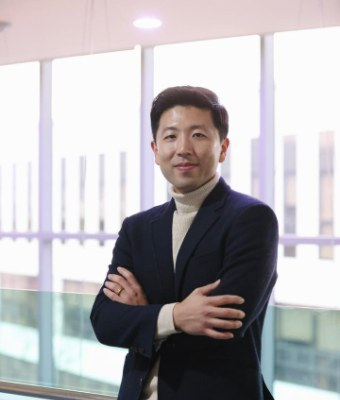
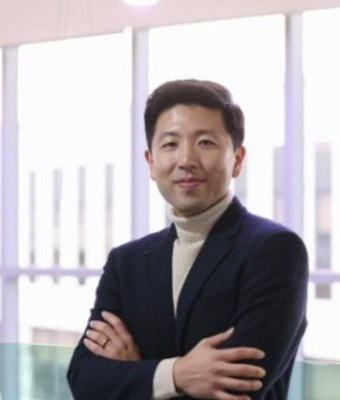
updated program and people's page

diff --git a/program-2026.html b/program-2026.html
@@ -127,13 +127,13 @@ a{color:#14402F;text-decoration:underline;text-underline-offset:3px}a:hover{colo
           <div style="display:grid;grid-template-columns:104px 1fr;gap:14px;padding:11px 0;border-bottom:1px solid #E4E7E4;font-size:13.5px"><span style="color:#75837B;font-variant-numeric:tabular-nums">09:10–09:40</span><span><strong>Opening remarks</strong><span style="color:#75837B"> · Arianna Legovini, World Bank DECDI</span></span></div>
           <div style="display:grid;grid-template-columns:104px 1fr;gap:14px;padding:11px 0;border-bottom:1px solid #E4E7E4;font-size:13.5px;color:#93A29A"><span style="font-variant-numeric:tabular-nums">09:40–09:45</span><span>Group photo</span></div>
           <div style="display:grid;grid-template-columns:104px 1fr;gap:14px;padding:11px 0;border-bottom:1px solid #E4E7E4;font-size:13.5px;color:#93A29A"><span style="font-variant-numeric:tabular-nums">09:45–10:00</span><span>Coffee break</span></div>
-          <div style="display:grid;grid-template-columns:104px 1fr;gap:14px;padding:11px 0;border-bottom:1px solid #E4E7E4;font-size:13.5px"><span style="color:#75837B;font-variant-numeric:tabular-nums">10:00–11:00</span><span><strong>Gender, Inequality &amp; Financial Inclusion</strong><span style="color:#75837B"> · Panel 1</span><span style="display:block;margin-top:3px;font-size:12px;color:#93A29A">Chair: Trinh Pham</span><span style="display:block;margin-top:9px;font-size:12.5px;line-height:1.5"><span style="font-weight:600;color:#2B3B33">Dongil Lee</span><span style="color:#75837B"> (KDIS)</span><span style="display:block;font-style:italic;color:#5B6470;margin-top:1px">Foreign Aid Cuts, Fertility, and Women’s Labor Supply: Evidence from the Mexico City Policy</span></span><span style="display:block;margin-top:9px;font-size:12.5px;line-height:1.5"><span style="font-weight:600;color:#2B3B33">Girija Borker</span><span style="color:#75837B"> (DIME)</span><span style="display:block;font-style:italic;color:#5B6470;margin-top:1px">Assessing Whether Policies Scale: A Randomized Method Applied to Delhi’s Free Bus Scheme</span></span><span style="display:block;margin-top:9px;font-size:12.5px;line-height:1.5"><span style="font-weight:600;color:#2B3B33">Hisaki Kono</span><span style="color:#75837B"> (Kyoto)</span><span style="display:block;font-style:italic;color:#5B6470;margin-top:1px">At the Right Time: Eliminating Mismatch between Cash and Credit Flows in Microcredit</span></span></span></div>
+          <div style="display:grid;grid-template-columns:104px 1fr;gap:14px;padding:11px 0;border-bottom:1px solid #E4E7E4;font-size:13.5px"><span style="color:#75837B;font-variant-numeric:tabular-nums">10:00–11:00</span><span><strong>Gender, Inequality &amp; Financial Inclusion</strong><span style="color:#75837B"> · Panel 1</span><span style="display:block;margin-top:3px;font-size:12px;color:#93A29A">Chair: Trinh Pham</span><span style="display:block;margin-top:9px;font-size:12.5px;line-height:1.5"><span style="font-weight:600;color:#2B3B33">Girija Borker</span><span style="color:#75837B"> (DIME)</span><span style="display:block;font-style:italic;color:#5B6470;margin-top:1px">Assessing Whether Policies Scale: A Randomized Method Applied to Delhi’s Free Bus Scheme</span></span><span style="display:block;margin-top:9px;font-size:12.5px;line-height:1.5"><span style="font-weight:600;color:#2B3B33">Dongil Lee</span><span style="color:#75837B"> (KDIS)</span><span style="display:block;font-style:italic;color:#5B6470;margin-top:1px">Foreign Aid Cuts, Fertility, and Women’s Labor Supply: Evidence from the Mexico City Policy</span></span><span style="display:block;margin-top:9px;font-size:12.5px;line-height:1.5"><span style="font-weight:600;color:#2B3B33">Hisaki Kono</span><span style="color:#75837B"> (Kyoto)</span><span style="display:block;font-style:italic;color:#5B6470;margin-top:1px">At the Right Time: Eliminating Mismatch between Cash and Credit Flows in Microcredit</span></span></span></div>
           <div style="display:grid;grid-template-columns:104px 1fr;gap:14px;padding:11px 0;border-bottom:1px solid #E4E7E4;font-size:13.5px;color:#93A29A"><span style="font-variant-numeric:tabular-nums">11:00–11:10</span><span>Break</span></div>
           <div style="display:grid;grid-template-columns:104px 1fr;gap:14px;padding:11px 0;border-bottom:1px solid #E4E7E4;font-size:13.5px"><span style="color:#75837B;font-variant-numeric:tabular-nums">11:10–12:10</span><span><strong>Education &amp; Human Capital</strong><span style="color:#75837B"> · Panel 2</span><span style="display:block;margin-top:3px;font-size:12px;color:#93A29A">Chair: Dongil Lee</span><span style="display:block;margin-top:9px;font-size:12.5px;line-height:1.5"><span style="font-weight:600;color:#2B3B33">Carlos Alfredo Schmidt Padilla</span><span style="color:#75837B"> (UC Berkeley)</span><span style="display:block;font-style:italic;color:#5B6470;margin-top:1px">Turning Information into Action: Bridging the Policy–Practice Gap through a Low-Cost School-Level Intervention</span></span><span style="display:block;margin-top:9px;font-size:12.5px;line-height:1.5"><span style="font-weight:600;color:#2B3B33">Uyanga Byambaa</span><span style="color:#75837B"> (UC Berkeley)</span><span style="display:block;font-style:italic;color:#5B6470;margin-top:1px">Cognitive Enrichment and Human Capital Formation: Experimental Evidence from Developing Countries</span></span><span style="display:block;margin-top:9px;font-size:12.5px;line-height:1.5"><span style="font-weight:600;color:#2B3B33">Benedetta Lerva</span><span style="color:#75837B"> (DIME)</span><span style="display:block;font-style:italic;color:#5B6470;margin-top:1px">Impacts of School Feeding on Children: Evidence from Four Countries</span></span></span></div>
           <div style="display:grid;grid-template-columns:104px 1fr;gap:14px;padding:11px 0;border-bottom:1px solid #E4E7E4;font-size:13.5px;color:#93A29A"><span style="font-variant-numeric:tabular-nums">12:10–13:30</span><span>Lunch</span></div>
           <div style="display:grid;grid-template-columns:104px 1fr;gap:14px;padding:11px 0;border-bottom:1px solid #E4E7E4;font-size:13.5px"><span style="color:#75837B;font-variant-numeric:tabular-nums">13:30–14:10</span><span><strong>Keynote — Johannes Haushofer</strong><span style="color:#75837B"> · Cornell University</span></span></div>
           <div style="display:grid;grid-template-columns:104px 1fr;gap:14px;padding:11px 0;border-bottom:1px solid #E4E7E4;font-size:13.5px;color:#93A29A"><span style="font-variant-numeric:tabular-nums">14:10–14:30</span><span>Coffee break</span></div>
-          <div style="display:grid;grid-template-columns:104px 1fr;gap:14px;padding:11px 0;border-bottom:1px solid #E4E7E4;font-size:13.5px"><span style="color:#75837B;font-variant-numeric:tabular-nums">14:30–15:50</span><span><strong>Lightning session</strong><span style="color:#75837B"> · Graduate-student presentations</span><span style="display:block;margin-top:3px;font-size:12px;color:#93A29A">Chair: Girija Borker</span><span style="display:block;margin-top:9px;font-size:12.5px;line-height:1.5"><span style="font-weight:600;color:#2B3B33">Rajdev Kaur Brar</span><span style="color:#75837B"> (UC Berkeley)</span><span style="display:block;font-style:italic;color:#5B6470;margin-top:1px">Household-Level Impacts of Strengthening Women’s Financial Control: Evidence from Côte d’Ivoire</span></span><span style="display:block;margin-top:9px;font-size:12.5px;line-height:1.5"><span style="font-weight:600;color:#2B3B33">Jasmin Baier</span><span style="color:#75837B"> (Oxford)</span><span style="display:block;font-style:italic;color:#5B6470;margin-top:1px">Can AI Career Guidance Substitute for Human Counselors? Information, Persuasion, and Match Quality in a Kenyan Youth Labor Market</span></span><span style="display:block;margin-top:9px;font-size:12.5px;line-height:1.5"><span style="font-weight:600;color:#2B3B33">Weijian Zou</span><span style="color:#75837B"> (LSE)</span><span style="display:block;font-style:italic;color:#5B6470;margin-top:1px">Disruptive Power: The Spatial Diffusion of Distributed Solar in South Africa</span></span><span style="display:block;margin-top:9px;font-size:12.5px;line-height:1.5"><span style="font-weight:600;color:#2B3B33">Hyunju Jeong</span><span style="color:#75837B"> (UC Davis)</span><span style="display:block;font-style:italic;color:#5B6470;margin-top:1px">Bundling Industrial Policy with Education: Evidence from Korea’s Heavy and Chemical Industry Drive</span></span><span style="display:block;margin-top:9px;font-size:12.5px;line-height:1.5"><span style="font-weight:600;color:#2B3B33">Piyush Gandhi</span><span style="color:#75837B"> (UC Santa Cruz)</span><span style="display:block;font-style:italic;color:#5B6470;margin-top:1px">Extinguishing the Blaze: Impact of Crop Residue Management on Stubble Burning in India</span></span><span style="display:block;margin-top:9px;font-size:12.5px;line-height:1.5"><span style="font-weight:600;color:#2B3B33">Mridul Joshi</span><span style="color:#75837B"> (Stanford)</span><span style="display:block;font-style:italic;color:#5B6470;margin-top:1px">Self-Command and Screen-Time: Evidence from an Educational Intervention</span></span><span style="display:block;margin-top:9px;font-size:12.5px;line-height:1.5"><span style="font-weight:600;color:#2B3B33">Bendi Devi</span><span style="color:#75837B"> (NUS)</span><span style="display:block;font-style:italic;color:#5B6470;margin-top:1px">Services In, Profits Out! Does Tax Treaty Reform in Technical Services Reduce Profit Shifting? Evidence from Transaction-Level Tax Data</span></span><span style="display:block;margin-top:9px;font-size:12.5px;line-height:1.5"><span style="font-weight:600;color:#2B3B33">Saqib Hussain</span><span style="color:#75837B"> (KDIS)</span><span style="display:block;font-style:italic;color:#5B6470;margin-top:1px">Role of (Mis)Information in Sectarian Conflict: A Social Media Experiment</span></span></span></div>
+          <div style="display:grid;grid-template-columns:104px 1fr;gap:14px;padding:11px 0;border-bottom:1px solid #E4E7E4;font-size:13.5px"><span style="color:#75837B;font-variant-numeric:tabular-nums">14:30–15:50</span><span><strong>Lightning session</strong><span style="color:#75837B"> · Graduate-student presentations</span><span style="display:block;margin-top:3px;font-size:12px;color:#93A29A">Chair: TBD (World Bank DECDI)</span><span style="display:block;margin-top:9px;font-size:12.5px;line-height:1.5"><span style="font-weight:600;color:#2B3B33">Rajdev Kaur Brar</span><span style="color:#75837B"> (UC Berkeley)</span><span style="display:block;font-style:italic;color:#5B6470;margin-top:1px">Household-Level Impacts of Strengthening Women’s Financial Control: Evidence from Côte d’Ivoire</span></span><span style="display:block;margin-top:9px;font-size:12.5px;line-height:1.5"><span style="font-weight:600;color:#2B3B33">Jasmin Baier</span><span style="color:#75837B"> (Oxford)</span><span style="display:block;font-style:italic;color:#5B6470;margin-top:1px">Can AI Career Guidance Substitute for Human Counselors? Information, Persuasion, and Match Quality in a Kenyan Youth Labor Market</span></span><span style="display:block;margin-top:9px;font-size:12.5px;line-height:1.5"><span style="font-weight:600;color:#2B3B33">Weijian Zou</span><span style="color:#75837B"> (LSE)</span><span style="display:block;font-style:italic;color:#5B6470;margin-top:1px">Disruptive Power: The Spatial Diffusion of Distributed Solar in South Africa</span></span><span style="display:block;margin-top:9px;font-size:12.5px;line-height:1.5"><span style="font-weight:600;color:#2B3B33">Hyunju Jeong</span><span style="color:#75837B"> (UC Davis)</span><span style="display:block;font-style:italic;color:#5B6470;margin-top:1px">Bundling Industrial Policy with Education: Evidence from Korea’s Heavy and Chemical Industry Drive</span></span><span style="display:block;margin-top:9px;font-size:12.5px;line-height:1.5"><span style="font-weight:600;color:#2B3B33">Piyush Gandhi</span><span style="color:#75837B"> (UC Santa Cruz)</span><span style="display:block;font-style:italic;color:#5B6470;margin-top:1px">Extinguishing the Blaze: Impact of Crop Residue Management on Stubble Burning in India</span></span><span style="display:block;margin-top:9px;font-size:12.5px;line-height:1.5"><span style="font-weight:600;color:#2B3B33">Mridul Joshi</span><span style="color:#75837B"> (Stanford)</span><span style="display:block;font-style:italic;color:#5B6470;margin-top:1px">Self-Command and Screen-Time: Evidence from an Educational Intervention</span></span><span style="display:block;margin-top:9px;font-size:12.5px;line-height:1.5"><span style="font-weight:600;color:#2B3B33">Bendi Devi</span><span style="color:#75837B"> (NUS)</span><span style="display:block;font-style:italic;color:#5B6470;margin-top:1px">Services In, Profits Out! Does Tax Treaty Reform in Technical Services Reduce Profit Shifting? Evidence from Transaction-Level Tax Data</span></span><span style="display:block;margin-top:9px;font-size:12.5px;line-height:1.5"><span style="font-weight:600;color:#2B3B33">Saqib Hussain</span><span style="color:#75837B"> (KDIS)</span><span style="display:block;font-style:italic;color:#5B6470;margin-top:1px">Role of (Mis)Information in Sectarian Conflict: A Social Media Experiment</span></span></span></div>
           <div style="display:grid;grid-template-columns:104px 1fr;gap:14px;padding:11px 0;border-bottom:1px solid #E4E7E4;font-size:13.5px;color:#93A29A"><span style="font-variant-numeric:tabular-nums">15:50–16:10</span><span>Coffee break</span></div>
           <div style="display:grid;grid-template-columns:104px 1fr;gap:14px;padding:11px 0;border-bottom:1px solid #E4E7E4;font-size:13.5px"><span style="color:#75837B;font-variant-numeric:tabular-nums">16:10–17:30</span><span><strong>Climate, Agriculture &amp; Environment</strong><span style="color:#75837B"> · Panel 3</span><span style="display:block;margin-top:3px;font-size:12px;color:#93A29A">Chair: Chungeun Yoon</span><span style="display:block;margin-top:9px;font-size:12.5px;line-height:1.5"><span style="font-weight:600;color:#2B3B33">Raghav Raghunathan</span><span style="color:#75837B"> (Wageningen)</span><span style="display:block;font-style:italic;color:#5B6470;margin-top:1px">Expanding the Planning Horizon: Behavioral Training and the Adoption of Drought-Tolerant Maize and Index Insurance in Tanzania</span></span><span style="display:block;margin-top:9px;font-size:12.5px;line-height:1.5"><span style="font-weight:600;color:#2B3B33">David Sungho Park</span><span style="color:#75837B"> (KDIS)</span><span style="display:block;font-style:italic;color:#5B6470;margin-top:1px">Compounded Climate Shocks and Food Security: Evidence from Back-to-Back Cyclones in Madagascar</span></span><span style="display:block;margin-top:9px;font-size:12.5px;line-height:1.5"><span style="font-weight:600;color:#2B3B33">Xavier Gine</span><span style="color:#75837B"> (DECRG)</span><span style="display:block;font-style:italic;color:#5B6470;margin-top:1px">Can Insurance Crowd-In Climate Adaptation?</span></span><span style="display:block;margin-top:9px;font-size:12.5px;line-height:1.5"><span style="font-weight:600;color:#2B3B33">Trinh Pham</span><span style="color:#75837B"> (KDIS)</span><span style="display:block;font-style:italic;color:#5B6470;margin-top:1px">The Environmental Cost of Place-Based Industrial Policy: Evidence from Industrial Zones in Vietnam</span></span></span></div>
         </div>
@@ -145,9 +145,9 @@ a{color:#14402F;text-decoration:underline;text-underline-offset:3px}a:hover{colo
           <div style="display:grid;grid-template-columns:104px 1fr;gap:14px;padding:11px 0;border-bottom:1px solid #E4E7E4;font-size:13.5px;color:#93A29A"><span style="font-variant-numeric:tabular-nums">10:00–10:20</span><span>Coffee break</span></div>
           <div style="display:grid;grid-template-columns:104px 1fr;gap:14px;padding:11px 0;border-bottom:1px solid #E4E7E4;font-size:13.5px"><span style="color:#75837B;font-variant-numeric:tabular-nums">10:20–11:40</span><span><strong>Labor Markets &amp; Work</strong><span style="color:#75837B"> · Panel 5</span><span style="display:block;margin-top:3px;font-size:12px;color:#93A29A">Chair: Dahyeon Jeong</span><span style="display:block;margin-top:9px;font-size:12.5px;line-height:1.5"><span style="font-weight:600;color:#2B3B33">Jinseong Park</span><span style="color:#75837B"> (KDIS)</span><span style="display:block;font-style:italic;color:#5B6470;margin-top:1px">In and Out: How Do Food Delivery Riders Work</span></span><span style="display:block;margin-top:9px;font-size:12.5px;line-height:1.5"><span style="font-weight:600;color:#2B3B33">Arlen Guarin</span><span style="color:#75837B"> (DIME)</span><span style="display:block;font-style:italic;color:#5B6470;margin-top:1px">The Early-Career Effects of Anxiety and Depression</span></span><span style="display:block;margin-top:9px;font-size:12.5px;line-height:1.5"><span style="font-weight:600;color:#2B3B33">Sam Seo</span><span style="color:#75837B"> (DIME)</span><span style="display:block;font-style:italic;color:#5B6470;margin-top:1px">Vintage Capital, Labor Market Dynamics, and Optimal Acceleration of Coal Transitions</span></span><span style="display:block;margin-top:9px;font-size:12.5px;line-height:1.5"><span style="font-weight:600;color:#2B3B33">Abdelrahman Nagy</span><span style="color:#75837B"> (UNU-MERIT &amp; 3ie)</span><span style="display:block;font-style:italic;color:#5B6470;margin-top:1px">Parental Influence on Youth Employment Decisions in Rural Egypt: Evidence from a Randomized Controlled Trial</span></span></span></div>
           <div style="display:grid;grid-template-columns:104px 1fr;gap:14px;padding:11px 0;border-bottom:1px solid #E4E7E4;font-size:13.5px;color:#93A29A"><span style="font-variant-numeric:tabular-nums">11:40–13:00</span><span>Lunch</span></div>
-          <div style="display:grid;grid-template-columns:104px 1fr;gap:14px;padding:11px 0;border-bottom:1px solid #E4E7E4;font-size:13.5px"><span style="color:#75837B;font-variant-numeric:tabular-nums">13:00–14:00</span><span><strong>Governance, Political Economy &amp; Digital Innovation</strong><span style="color:#75837B"> · Panel 6</span><span style="display:block;margin-top:3px;font-size:12px;color:#93A29A">Chair: Jinseong Park</span><span style="display:block;margin-top:9px;font-size:12.5px;line-height:1.5"><span style="font-weight:600;color:#2B3B33">Chungeun Yoon</span><span style="color:#75837B"> (KDIS)</span><span style="display:block;font-style:italic;color:#5B6470;margin-top:1px">Terrorism and Voting: Evidence from the Death of Osama bin Laden</span></span><span style="display:block;margin-top:9px;font-size:12.5px;line-height:1.5"><span style="font-weight:600;color:#2B3B33">Minji Kwak</span><span style="color:#75837B"> (KDIS)</span><span style="display:block;font-style:italic;color:#5B6470;margin-top:1px">Social Incentives of Non-Elected Leaders in Village Economies</span></span><span style="display:block;margin-top:9px;font-size:12.5px;line-height:1.5"><span style="font-weight:600;color:#2B3B33">Carolina Lopez</span><span style="color:#75837B"> (DECRG)</span><span style="display:block;font-style:italic;color:#5B6470;margin-top:1px">Not Faster, but Better: Generative AI and Teacher Skill in Peru</span></span></span></div>
+          <div style="display:grid;grid-template-columns:104px 1fr;gap:14px;padding:11px 0;border-bottom:1px solid #E4E7E4;font-size:13.5px"><span style="color:#75837B;font-variant-numeric:tabular-nums">13:00–14:00</span><span><strong>Governance, Political Economy &amp; Digital Innovation</strong><span style="color:#75837B"> · Panel 6</span><span style="display:block;margin-top:3px;font-size:12px;color:#93A29A">Chair: Sam Seo</span><span style="display:block;margin-top:9px;font-size:12.5px;line-height:1.5"><span style="font-weight:600;color:#2B3B33">Chungeun Yoon</span><span style="color:#75837B"> (KDIS)</span><span style="display:block;font-style:italic;color:#5B6470;margin-top:1px">Terrorism and Voting: Evidence from the Death of Osama bin Laden</span></span><span style="display:block;margin-top:9px;font-size:12.5px;line-height:1.5"><span style="font-weight:600;color:#2B3B33">Minji Kwak</span><span style="color:#75837B"> (KDIS)</span><span style="display:block;font-style:italic;color:#5B6470;margin-top:1px">Social Incentives of Non-Elected Leaders in Village Economies</span></span><span style="display:block;margin-top:9px;font-size:12.5px;line-height:1.5"><span style="font-weight:600;color:#2B3B33">Carolina Lopez</span><span style="color:#75837B"> (DECRG)</span><span style="display:block;font-style:italic;color:#5B6470;margin-top:1px">Not Faster, but Better: Generative AI and Teacher Skill in Peru</span></span></span></div>
           <div style="display:grid;grid-template-columns:104px 1fr;gap:14px;padding:11px 0;border-bottom:1px solid #E4E7E4;font-size:13.5px;color:#93A29A"><span style="font-variant-numeric:tabular-nums">14:00–14:20</span><span>Coffee break</span></div>
-          <div style="display:grid;grid-template-columns:104px 1fr;gap:14px;padding:11px 0;border-bottom:1px solid #E4E7E4;font-size:13.5px"><span style="color:#75837B;font-variant-numeric:tabular-nums">14:20–15:20</span><span><strong>Social Protection &amp; Poverty</strong><span style="color:#75837B"> · Panel 7</span><span style="display:block;margin-top:3px;font-size:12px;color:#93A29A">Chair: Minji Kwak</span><span style="display:block;margin-top:9px;font-size:12.5px;line-height:1.5"><span style="font-weight:600;color:#2B3B33">Mahreen Mahmud</span><span style="color:#75837B"> (Exeter)</span><span style="display:block;font-style:italic;color:#5B6470;margin-top:1px">“We’re All in This Together”: Experimental Evidence from a Universal Livelihoods Program</span></span><span style="display:block;margin-top:9px;font-size:12.5px;line-height:1.5"><span style="font-weight:600;color:#2B3B33">Dahyeon Jeong</span><span style="color:#75837B"> (DIME)</span><span style="display:block;font-style:italic;color:#5B6470;margin-top:1px">Designing Social Protection: Evidence from Cash, Public Works, and Economic Inclusion in Tanzania</span></span><span style="display:block;margin-top:9px;font-size:12.5px;line-height:1.5"><span style="font-weight:600;color:#2B3B33">Amol Singh Raswan</span><span style="color:#75837B"> (UC Berkeley)</span><span style="display:block;font-style:italic;color:#5B6470;margin-top:1px">The Sisyphean Pursuit of Evidence for Poverty Traps</span></span></span></div>
+          <div style="display:grid;grid-template-columns:104px 1fr;gap:14px;padding:11px 0;border-bottom:1px solid #E4E7E4;font-size:13.5px"><span style="color:#75837B;font-variant-numeric:tabular-nums">14:20–15:20</span><span><strong>Social Protection &amp; Poverty</strong><span style="color:#75837B"> · Panel 7</span><span style="display:block;margin-top:3px;font-size:12px;color:#93A29A">Chair: Jinseong Park</span><span style="display:block;margin-top:9px;font-size:12.5px;line-height:1.5"><span style="font-weight:600;color:#2B3B33">Mahreen Mahmud</span><span style="color:#75837B"> (Exeter)</span><span style="display:block;font-style:italic;color:#5B6470;margin-top:1px">“We’re All in This Together”: Experimental Evidence from a Universal Livelihoods Program</span></span><span style="display:block;margin-top:9px;font-size:12.5px;line-height:1.5"><span style="font-weight:600;color:#2B3B33">Dahyeon Jeong</span><span style="color:#75837B"> (DIME)</span><span style="display:block;font-style:italic;color:#5B6470;margin-top:1px">Designing Social Protection: Evidence from Cash, Public Works, and Economic Inclusion in Tanzania</span></span><span style="display:block;margin-top:9px;font-size:12.5px;line-height:1.5"><span style="font-weight:600;color:#2B3B33">Amol Singh Raswan</span><span style="color:#75837B"> (UC Berkeley)</span><span style="display:block;font-style:italic;color:#5B6470;margin-top:1px">The Sisyphean Pursuit of Evidence for Poverty Traps</span></span></span></div>
         </div>
       </div>
     </div>

diff --git a/people.html b/people.html
@@ -77,9 +77,9 @@ a{color:#14402F;text-decoration:underline;text-underline-offset:3px}a:hover{colo
         <img src="photos/people-park.jpg" alt="Drop David Sungho Park headshot" style="width:170px;height:200px;object-fit:cover">
         <div>
           <div style="font-family:'Source Serif 4',serif;font-weight:600;font-size:26px;margin-bottom:5px">David Sungho Park</div>
-          <div style="font-size:13.5px;font-weight:600;color:#5B6470;margin-bottom:6px">Associate Professor of Economics, KDI School of Public Policy and Management</div>
-          <div style="font-size:10.5px;font-weight:700;letter-spacing:1.8px;color:#A87E28;text-transform:uppercase;margin-bottom:16px">Poverty · Applied microeconomics · RCTs</div>
-          <p style="font-size:14.5px;line-height:1.7;color:#2B3B33;margin:0;max-width:760px;text-wrap:pretty">David Sungho Park is Associate Professor of Economics at the KDI School of Public Policy and Management. He is an applied microeconomist working on poverty, using randomized controlled trials and quasi-experimental methods to ask how low-income households and small firms make decisions and how policy can improve their outcomes. Much of this work is based on large-scale trials in Sub-Saharan Africa, South Asia, and beyond, spanning Tanzania, Liberia, Malawi, Zambia, Kenya, Uganda, Pakistan, Vietnam, Georgia, and Kyrgyzstan. His published work covers unconditional cash transfers, intimate partner violence, agricultural input adoption, food security, and the measurement of survey outcomes. His current agenda extends this to energy and climate, and to retail productivity of small businesses.</p>
+          <div style="font-size:13.5px;font-weight:600;color:#5B6470;margin-bottom:6px">Associate Professor, KDI School of Public Policy and Management</div>
+          <div style="font-size:10.5px;font-weight:700;letter-spacing:1.8px;color:#A87E28;text-transform:uppercase;margin-bottom:16px">Development · Field experiments · Climate &amp; energy</div>
+          <p style="font-size:14.5px;line-height:1.7;color:#2B3B33;margin:0;max-width:760px;text-wrap:pretty">David Sungho Park is Associate Professor at the KDI School of Public Policy and Management. He is an applied microeconomist working on poverty, using randomized controlled trials and quasi-experimental methods to ask how low-income households and small firms make decisions and how policy can improve their outcomes. Much of this work is based on large-scale trials in Sub-Saharan Africa, South Asia, and beyond, spanning Tanzania, Liberia, Malawi, Zambia, Kenya, Uganda, Pakistan, Vietnam, Georgia, and Kyrgyzstan. His published work covers unconditional cash transfers, intimate partner violence, agricultural input adoption, food security, and the measurement of survey outcomes. His current agenda extends this to energy and climate, and to retail productivity of small businesses. He received his Ph.D. in Economics from the University of California, Santa Cruz, and a B.A. in Economics from Yonsei University.</p>
         </div>
       </div>
 
@@ -87,9 +87,9 @@ a{color:#14402F;text-decoration:underline;text-underline-offset:3px}a:hover{colo
         <img src="photos/people-lee.jpg" alt="Drop Dongil Lee headshot" style="width:170px;height:200px;object-fit:cover">
         <div>
           <div style="font-family:'Source Serif 4',serif;font-weight:600;font-size:26px;margin-bottom:5px">Dongil Lee</div>
-          <div style="font-size:13.5px;font-weight:600;color:#5B6470;margin-bottom:6px">Assistant Professor, KDI School of Public Policy and Management</div>
+          <div style="font-size:13.5px;font-weight:600;color:#5B6470;margin-bottom:6px">Associate Professor, KDI School of Public Policy and Management</div>
           <div style="font-size:10.5px;font-weight:700;letter-spacing:1.8px;color:#A87E28;text-transform:uppercase;margin-bottom:16px">Political economy of development</div>
-          <p style="font-size:14.5px;line-height:1.7;color:#2B3B33;margin:0;max-width:760px;text-wrap:pretty">Dongil Lee is Assistant Professor at the KDI School of Public Policy and Management. His research focuses on the political economy of development, with interests in bureaucracy, public service delivery, and state capacity. He received his Ph.D. in Politics from New York University.</p>
+          <p style="font-size:14.5px;line-height:1.7;color:#2B3B33;margin:0;max-width:760px;text-wrap:pretty">Dongil Lee is Associate Professor at the KDI School of Public Policy and Management. He studies the political economy of development, focusing on how formal institutions and informal incentives shape political behavior, representation, and state capacity in sub-Saharan Africa. His work has been published or is forthcoming in the Journal of Politics, Studies in Comparative International Development, and World Development. He earned his Ph.D. in Political Science from New York University in 2022; before graduate school, he spent two years in Dagana, Senegal, as a KOICA-affiliated IT teacher. Since joining KDI School, he has co-organized the KDI School–World Bank Development Impact Conference (2022–2025) and co-founded the Global Strategy &amp; Political Economy Lab in 2024.</p>
         </div>
       </div>
 
@@ -99,7 +99,7 @@ a{color:#14402F;text-decoration:underline;text-underline-offset:3px}a:hover{colo
           <div style="font-family:'Source Serif 4',serif;font-weight:600;font-size:26px;margin-bottom:5px">Chungeun Yoon</div>
           <div style="font-size:13.5px;font-weight:600;color:#5B6470;margin-bottom:6px">Associate Professor, KDI School of Public Policy and Management</div>
           <div style="font-size:10.5px;font-weight:700;letter-spacing:1.8px;color:#A87E28;text-transform:uppercase;margin-bottom:16px">Innovation · Labor · Development</div>
-          <p style="font-size:14.5px;line-height:1.7;color:#2B3B33;margin:0;max-width:760px;text-wrap:pretty">Chungeun Yoon is Associate Professor at the KDI School of Public Policy and Management. His research focuses on labor and development, particularly the causal relationship between labor supply and innovation, including knowledge spillovers, immigration, migration, and ethnic diversity. He received his Ph.D. in Economics from the University of Notre Dame and earlier worked for four years with the Korea International Cooperation Agency (KOICA), including two years in Cambodia.</p>
+          <p style="font-size:14.5px;line-height:1.7;color:#2B3B33;margin:0;max-width:760px;text-wrap:pretty">Chungeun Yoon is Associate Professor at the KDI School of Public Policy and Management. He studies labor and development economics, with a particular focus on the causal relationship between labor supply and innovation, including knowledge spillovers, immigration, migration, and ethnic diversity. His work often draws empirical evidence from economic history and historical events such as World War I, the Immigration Quota Acts, the Civil War, and the Killing Fields. He received his Ph.D. from the University of Notre Dame, an M.A. from Georgia State University, and a B.A. from Seoul National University. Before graduate school, he worked for four years at the Korea International Cooperation Agency (KOICA), including two years in Cambodia.</p>
         </div>
       </div>
 
@@ -109,7 +109,7 @@ a{color:#14402F;text-decoration:underline;text-underline-offset:3px}a:hover{colo
           <div style="font-family:'Source Serif 4',serif;font-weight:600;font-size:26px;margin-bottom:5px">Trinh Pham</div>
           <div style="font-size:13.5px;font-weight:600;color:#5B6470;margin-bottom:6px">Assistant Professor, KDI School of Public Policy and Management</div>
           <div style="font-size:10.5px;font-weight:700;letter-spacing:1.8px;color:#A87E28;text-transform:uppercase;margin-bottom:16px">Development · Labor · Environment</div>
-          <p style="font-size:14.5px;line-height:1.7;color:#2B3B33;margin:0;max-width:760px;text-wrap:pretty">Trinh Pham is Assistant Professor at the KDI School of Public Policy and Management. She is an applied economist working at the intersection of development, labor, and environmental economics, with a focus on household livelihoods and human capital in low- and middle-income countries. She received her Ph.D. in Applied Economics from Cornell University and an M.P.P. from the KDI School.</p>
+          <p style="font-size:14.5px;line-height:1.7;color:#2B3B33;margin:0;max-width:760px;text-wrap:pretty">Trinh Pham is Assistant Professor at the KDI School of Public Policy and Management. She is an applied economist working at the intersection of development, labor, and environmental economics, with particular interest in the determinants of household livelihoods and resource allocation in low- and middle-income countries, and in the factors shaping educational decisions and labor market outcomes. She received her Ph.D. in Applied Economics from Cornell University in 2024 and an M.P.P. from the KDI School. Her doctoral research was recognized by the Weiss Fund for Research in Development Economics and the Agricultural &amp; Applied Economics Association.</p>
         </div>
       </div>
 
